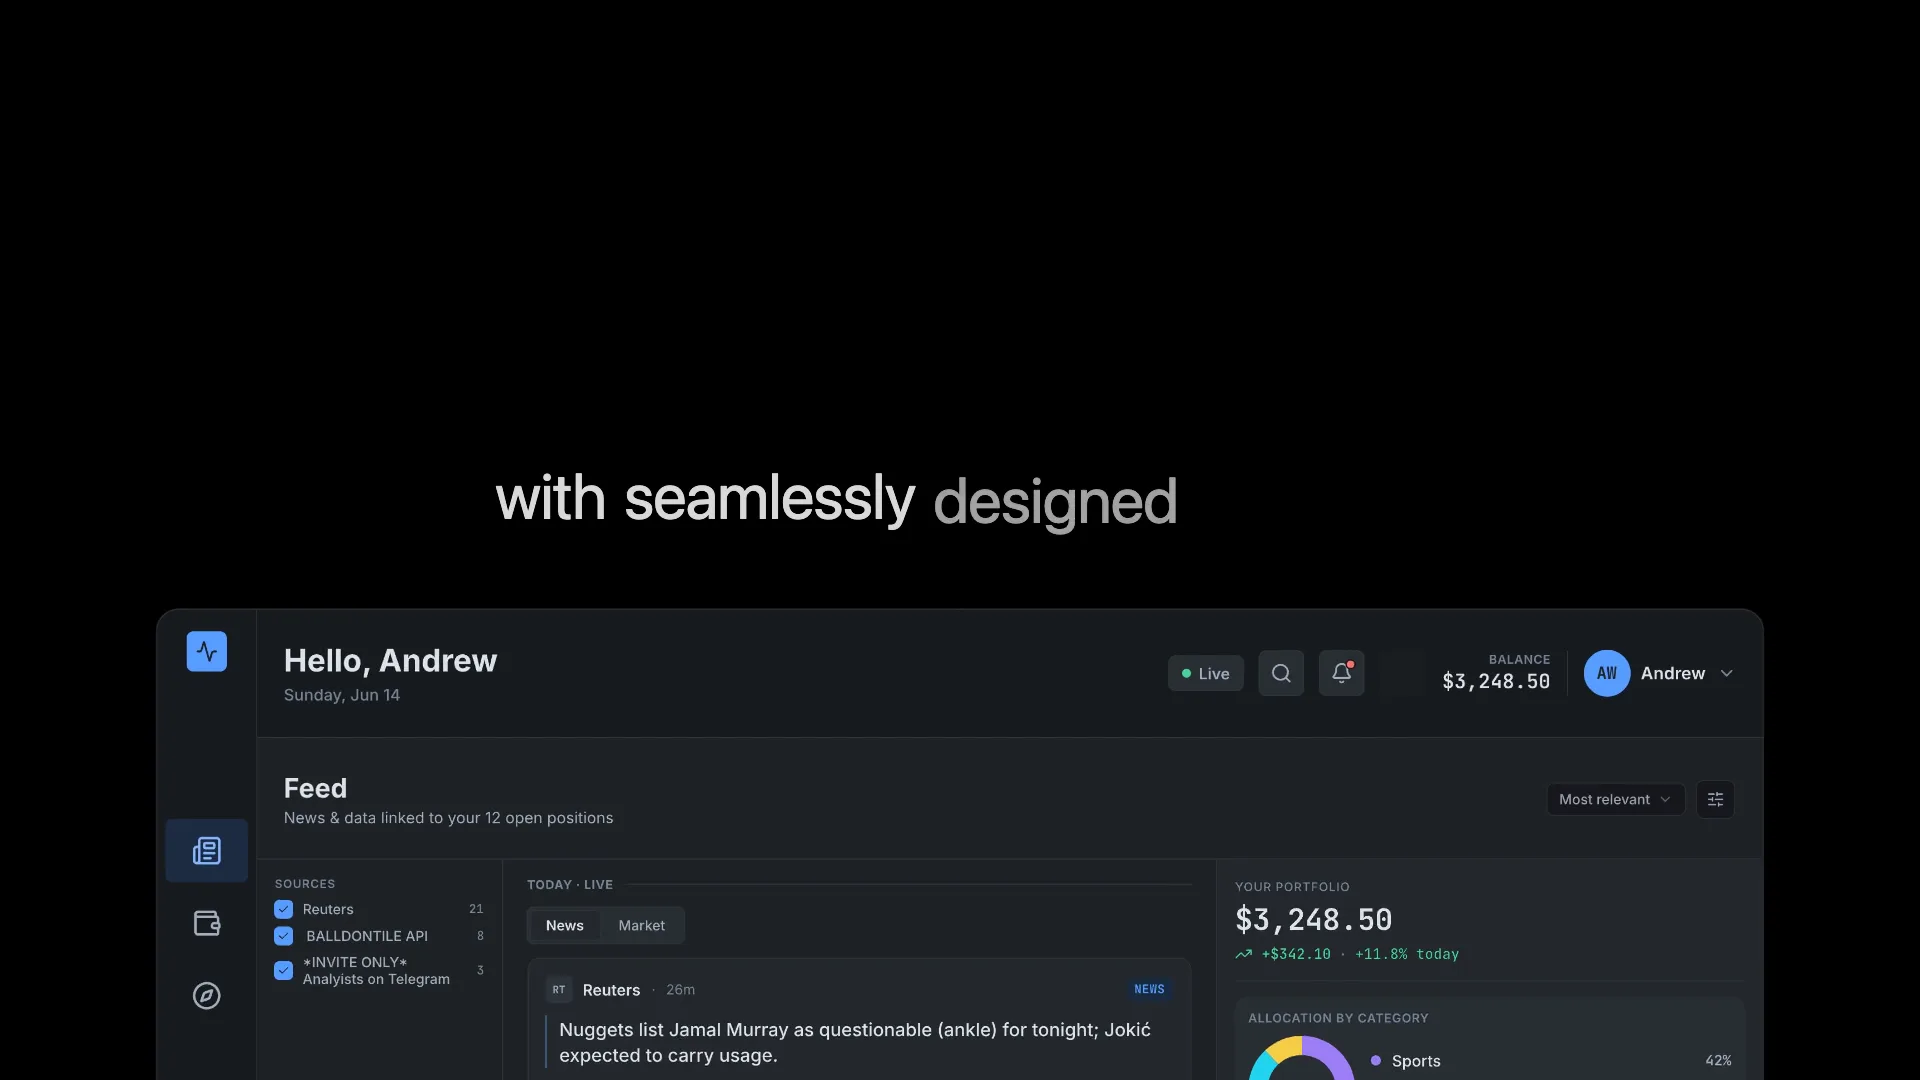
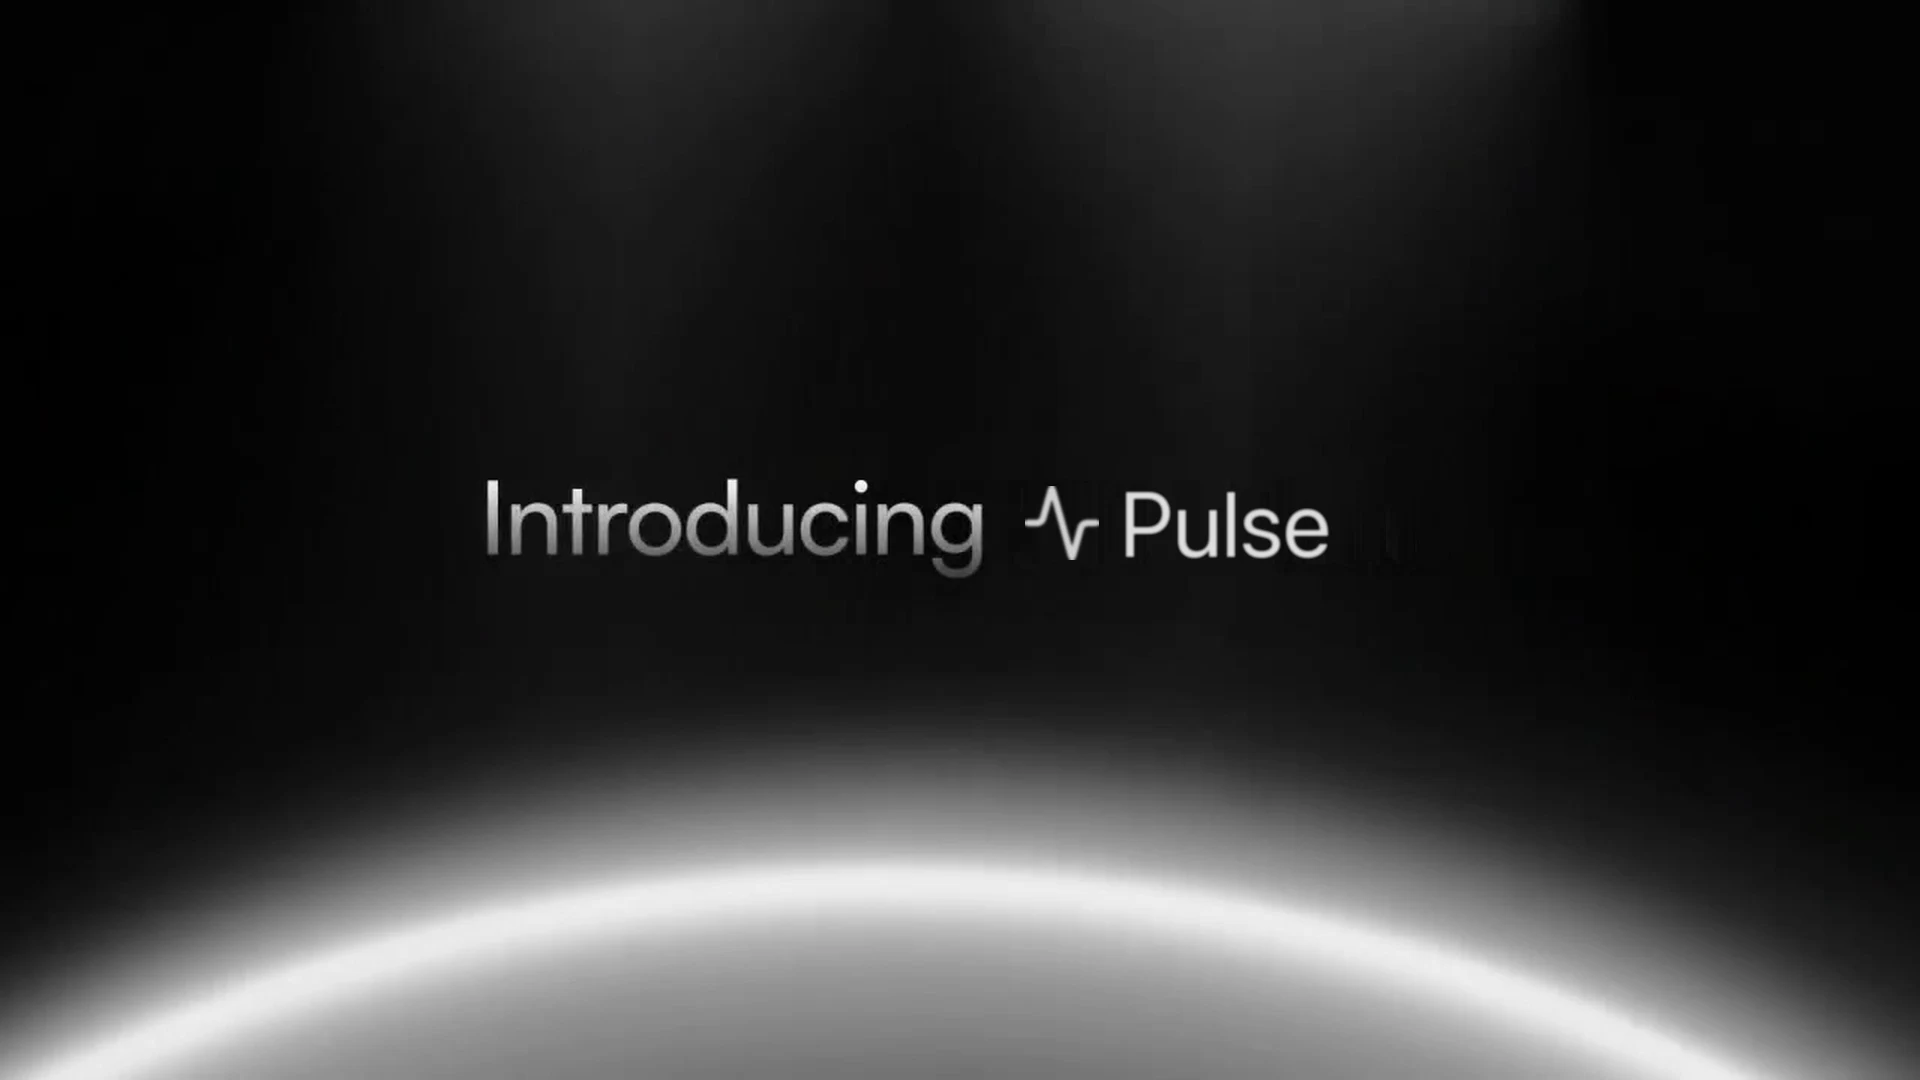
Update showcase/outro copy; refresh trailer + poster
- Core Features section: new heading, umbrella value-prop paragraph, and
  four cross-venue / signals / multi-venue bullets; add chip pill styles.
- Outro: "The Bloomberg terminal for prediction markets" + cross-venue,
  pro/beginner subline (new .outro-sub style).
- Replace hero trailer with the rebuilt cut (new "Make your moves /
  backed by the full picture" copy) and set poster to frame 24.

diff --git a/public/index.html b/public/index.html
@@ -4,7 +4,7 @@
 <head>
   <meta charset="UTF-8" />
   <meta name="viewport" content="width=device-width, initial-scale=1.0" />
-  <title>Pulse — All your positions. All their signals. One pulse.</title>
+  <title>Pulse</title>
   <meta name="description"
     content="Pulse unifies your prediction-market portfolio across every venue and tells you why it moves — the moment it does. Join the waitlist." />
   <meta property="og:title" content="Pulse — Get signals from the noise." />
@@ -71,13 +71,13 @@
         <div class="sc-text fx-reveal">
           <div class="chip">
             <span class="chip-dot"></span>
-            <span class="chip-label">03 — DISCOVERY</span>
+            <span class="chip-label">Core Features</span>
           </div>
-          <h2 class="sc-heading">Your next position, found.</h2>
+          <h2 class="sc-heading">Get signals from the noise</h2>
           <p class="sc-body">
-            Browse every market across venues, search in plain English, and stack
-            filters until the odds line up. The next trade is already out there —
-            Pulse points at it.
+            Pulse unifies your positions across every venue and turns the firehose
+            of news, data, and market events into signals tied to what you actually
+            hold.
           </p>
           <ul class="sc-bullets">
             <li class="sc-bullet">
@@ -87,7 +87,7 @@
                   <path d="M20 6 9 17l-5-5" />
                 </svg>
               </span>
-              <span class="sc-bullet-label">Search markets in plain English</span>
+              <span class="sc-bullet-label">Search in plain English and find cross-venue arbitrage</span>
             </li>
             <li class="sc-bullet">
               <span class="sc-check">
@@ -96,7 +96,8 @@
                   <path d="M20 6 9 17l-5-5" />
                 </svg>
               </span>
-              <span class="sc-bullet-label">Filter and compare across venues</span>
+              <span class="sc-bullet-label">Unparalleled visibility and insight on your entire portfolio — single-venue
+                or multi-venue</span>
             </li>
             <li class="sc-bullet">
               <span class="sc-check">
@@ -105,7 +106,16 @@
                   <path d="M20 6 9 17l-5-5" />
                 </svg>
               </span>
-              <span class="sc-bullet-label">Spot the odds before the crowd</span>
+              <span class="sc-bullet-label">Go multi-venue with confidence — never lose sight of a position</span>
+            </li>
+            <li class="sc-bullet">
+              <span class="sc-check">
+                <svg width="13" height="13" viewBox="0 0 24 24" fill="none" stroke="var(--color-accent)"
+                  stroke-width="2.5" stroke-linecap="round" stroke-linejoin="round" aria-hidden="true">
+                  <path d="M20 6 9 17l-5-5" />
+                </svg>
+              </span>
+              <span class="sc-bullet-label">Know why each position moves, and what to do, before anyone else</span>
             </li>
           </ul>
         </div>
@@ -167,13 +177,17 @@
       </div>
 
       <div class="outro-stack fx-reveal" id="outro-stack">
-        <h2 class="outro-heading">Get signals<br />from the noise.</h2>
+        <h2 class="outro-heading">The Bloomberg Terminal<br />for prediction markets.</h2>
+        <p class="outro-sub">
+          One cross-venue command center for your whole portfolio — whether you
+          trade for a living or you're just getting started.
+        </p>
       </div>
 
       <!-- Dock line for the floating waitlist CTA. -->
       <div class="cta-dock" id="cta-dock" aria-hidden="true"></div>
 
-      <p class="outro-footer">© 2026 · PULSE · BY ROOMONE</p>
+      <p class="outro-footer">© 2026 · PULSE</p>
     </section>
   </main>
 

diff --git a/public/styles.css b/public/styles.css
@@ -268,6 +268,29 @@ button {
   max-width: 100%;
   flex-shrink: 0;
 }
+.chip {
+  display: inline-flex;
+  align-items: center;
+  gap: 9px;
+  align-self: flex-start;
+  padding: 8px 16px;
+  border-radius: 9999px;
+  border: 1px solid var(--color-glass-border);
+  background: var(--color-glass);
+}
+.chip-dot {
+  height: 7px;
+  width: 7px;
+  flex-shrink: 0;
+  border-radius: 9999px;
+  background: var(--color-fg-dim);
+}
+.chip-label {
+  font-size: 14px;
+  font-weight: 600;
+  letter-spacing: 0.01em;
+  color: var(--color-fg-muted);
+}
 .sc-heading {
   font-family: var(--font-display);
   font-size: clamp(28px, 2.65vw, 38px);
@@ -453,6 +476,13 @@ button {
   font-size: clamp(44px, 5.4vw, 78px);
   line-height: 1.12;
   color: var(--color-fg);
+}
+.outro-sub {
+  margin-top: 22px;
+  max-width: 560px;
+  font-size: clamp(16px, 1.5vw, 19px);
+  line-height: 1.6;
+  color: var(--color-fg-muted);
 }
 .cta-dock {
   pointer-events: none;